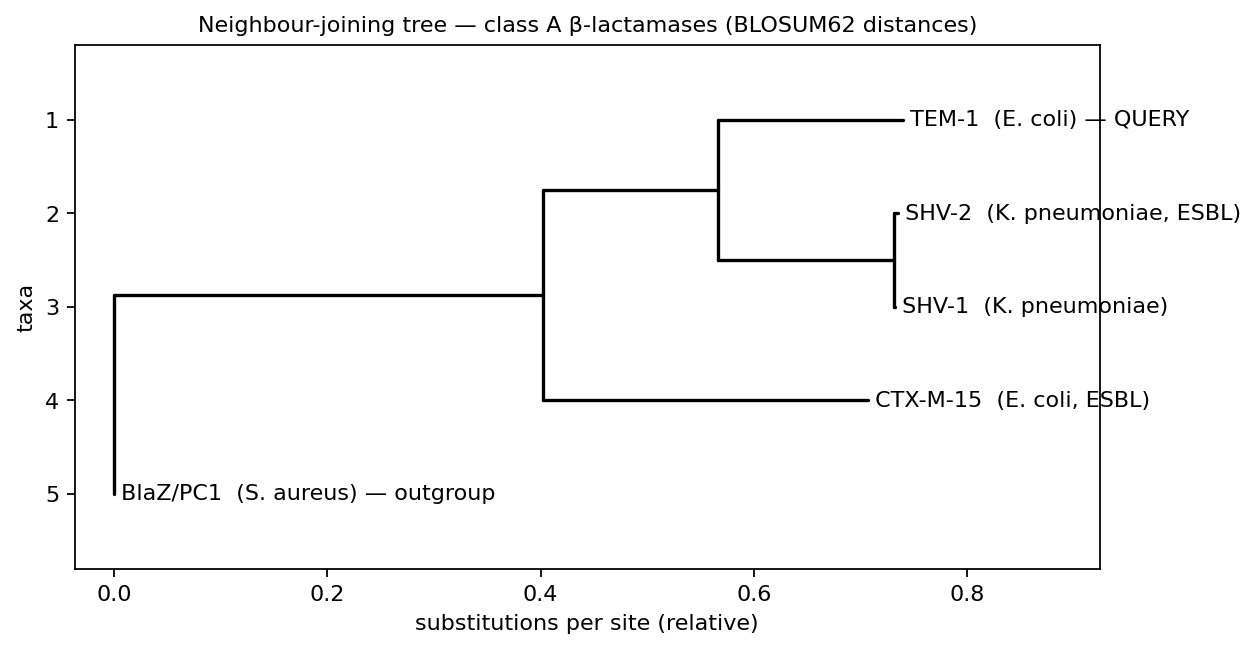
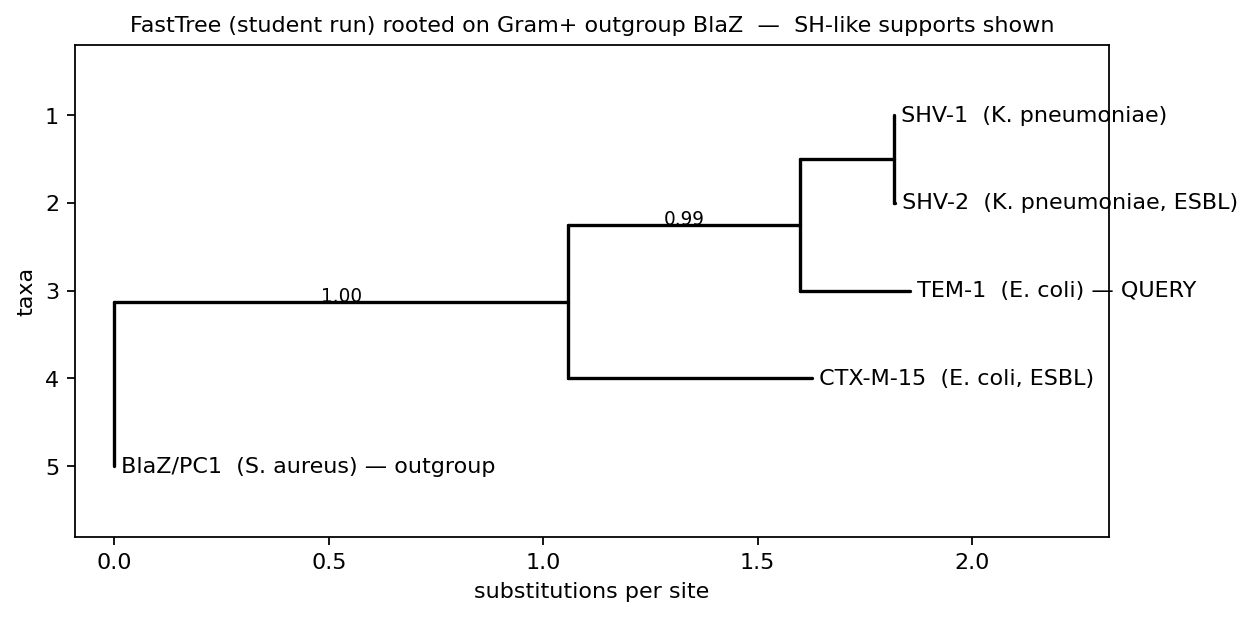
Replace with cleaned final deliverables

diff --git a/README.md b/README.md
@@ -1,0 +1,46 @@
+# The Bioinformatic Detective — Sequence B
+
+**Bioinformatics Minor · 2025–2026**
+
+Identification and characterisation of an unknown protein delivered as a neutral-header FASTA file (`sequence B`).
+
+## Verdict
+
+> **Sequence B = TEM-1 β-lactamase** · *Escherichia coli* · UniProt **P62593** · gene *bla*TEM-1 · EC 3.5.2.6
+
+A 286-residue, ~31.5 kDa class A serine β-lactamase: the periplasmic enzyme that hydrolyses the β-lactam ring of penicillins and early cephalosporins, conferring antibiotic resistance. It is the most widespread plasmid-mediated β-lactamase in Gram-negative bacteria and the ancestral scaffold of many extended-spectrum (ESBL) and inhibitor-resistant variants.
+
+## Repository contents
+
+| File | Description |
+|------|-------------|
+| `Sequence_B_report.docx` | Full written analysis (BLAST, annotation, literature, MSA, tree, clinical significance) |
+| `Sequence_B_presentation.pptx` | 8-slide presentation for the oral defence |
+| `homologs.fasta` | Multi-FASTA: query + 4 class A β-lactamase homologs |
+| `alignment.fasta` | Multiple sequence alignment of the homologs (MAFFT) |
+| `tree.nwk` / `tree.png` | Phylogenetic tree, rooted on the BlaZ outgroup (Newick + figure) |
+| `msa_motifs.png` | Conserved catalytic motifs across the alignment |
+| `galaxy_workflow.ga` | Exported Galaxy workflow (BLAST → MAFFT → FastTree → Newick Display) |
+
+## Methods
+
+1. **Similarity search** — BLASTp of sequence B vs NCBI ClusteredNR → 100 % identity to TEM-1, E-value 0.0, full coverage; near-identical hits across many Gram-negative genera (mobile, conserved gene).
+2. **Annotation** — gene and reviewed protein entry (UniProt P62593): length, MW, periplasmic localisation, class A fold, and catalytic residues (Ser70, Lys73, SDN loop, Glu166, K-[S/T]-G triad).
+3. **Homolog collection** — TEM-1 (query), SHV-1, SHV-2, CTX-M-15, and BlaZ/PC1 (*S. aureus*, Gram-positive outgroup).
+4. **MSA** — MAFFT alignment; 48 fully conserved columns concentrated in the catalytic core.
+5. **Phylogeny** — FastTree (SH-like supports), rooted on the BlaZ outgroup → BlaZ | CTX-M-15 | TEM-1 | (SHV-1, SHV-2).
+6. **Galaxy workflow** — reproducible pipeline chaining BLAST + MSA + tree.
+
+## Key findings
+
+- **Mobile, highly conserved resistance gene** — the same protein appears across *Acinetobacter, Klebsiella, Escherichia, Morganella, Providencia, Enterobacter*… via horizontal gene transfer.
+- **Conserved catalytic core / variable surface** — the active-site signatures (S-x-x-K, SDN, K-[S/T]-G) are invariant across all five enzymes.
+- **ESBL evolution by single mutations** — SHV-1 → SHV-2 differ by a single residue, illustrating how one substitution extends the resistance spectrum.
+
+## Reproduce
+
+Import `galaxy_workflow.ga` into [usegalaxy.org](https://usegalaxy.org) and supply `homologs.fasta` as input to re-run BLAST → MSA → tree.
+
+## License
+
+MIT © 2026 Côme Barmoy